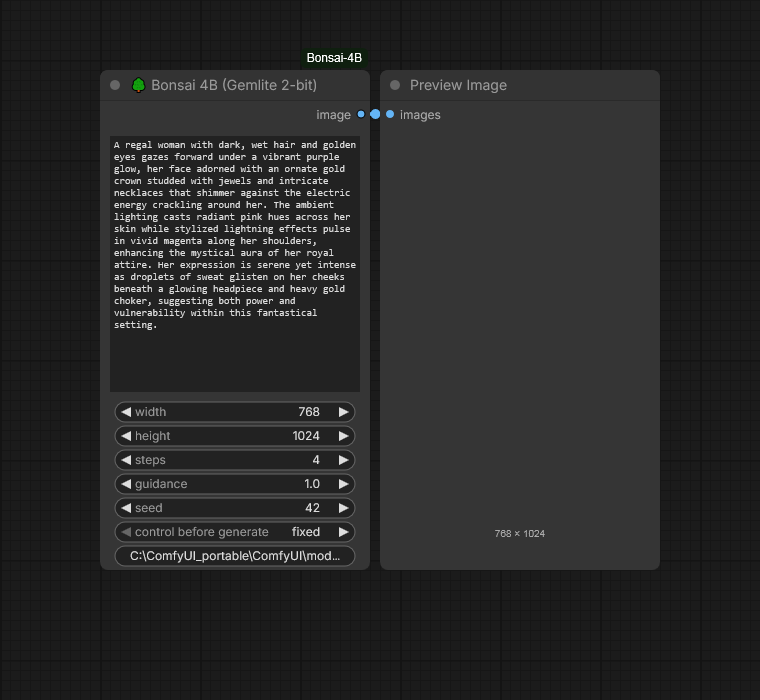
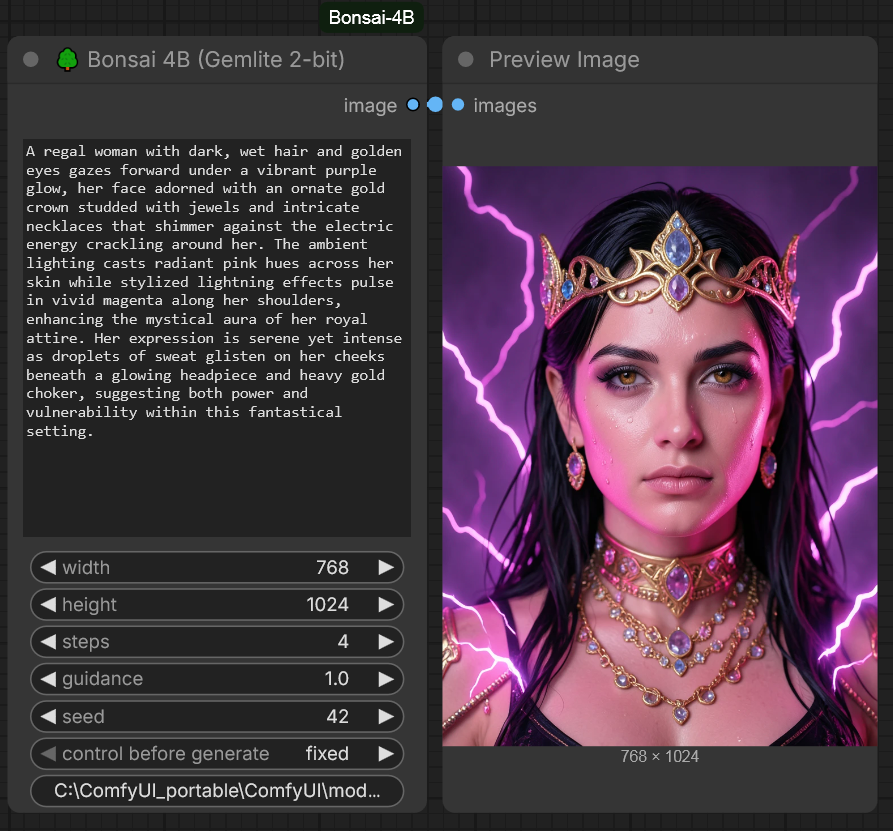
Bonsai-4B

diff --git a/ReadMe.MD b/ReadMe.MD
@@ -1,5 +1,7 @@
 ComfyUI-Bonsai-4B
 
+<img height="350" alt="Custom Resolution 🐲" src="example_workflow\Bonsai-image-4B (2Bit).png" />
+
 A custom ComfyUI node to run the Bonsai 4B (2-bit Ternary) image generation model locally. This node utilizes optimized Gemlite and HQQ kernels for high-speed inference on Windows/Linux GPU environments.
 ⚠️ Prerequisites
 
@@ -25,37 +27,30 @@ pip install hqq gemlite triton-windows
 
 The node expects the model files to be organized in your ComfyUI directory:
 
-    Create a folder at ComfyUI/models/Bonsai-4B/.
-
-    Ensure the following sub-folders are present inside Bonsai-4B/:
-
-        transformer-gemlite-int2/
-
-        text_encoder-hqq-4bit/
-
-        vae/
+```
+ComfyUI/
+└── models/
+    └── Bonsai-4B/   <-- Create this folder
+        ├── text_encoder-hqq-4bit/
+        ├── transformer-gemlite-int2/
+        └── vae/
+```
 
 Note: If the model is not found, the node will attempt to automatically download the required weights from Hugging Face upon the first run.
+
 ## 🚀 Usage
 
-    Restart ComfyUI.
+Restart ComfyUI.
+Right-click the canvas and select Add Node > Bonsai Image > Bonsai 4B (Gemlite 2-bit).
+Connect the IMAGE output to a Save Image node.
+Configure your prompt and inference settings.
+ Queue Prompt. The model will warm up on the GPU for the first generation.
 
-    Right-click the canvas and select Add Node > Bonsai Image > Bonsai 4B (Gemlite 2-bit).
-
-    Connect the IMAGE output to a Save Image node.
-
-    Configure your prompt and inference settings.
-
-    Queue Prompt. The model will warm up on the GPU for the first generation.
-
-## 🧩 Node Structure
 ## 📝 Troubleshooting
 
-    Missing Kernels: Ensure triton is installed correctly for your specific GPU architecture.
-
-    RuntimeError (prewarm): If you see a prewarm error, ensure your model paths in ComfyUI/models/Bonsai-4B/ are not empty and contain the necessary config.json files for each component.
-
-    VRAM Issues: This model is highly optimized, but ensure you have at least 6GB of VRAM available to accommodate the loading process.
+Missing Kernels: Ensure triton is installed correctly for your specific GPU architecture.
+RuntimeError (prewarm): If you see a prewarm error, ensure your model paths in ComfyUI/models/Bonsai-4B/ are not empty and contain the necessary config.json files for each component.
+VRAM Issues: This model is highly optimized, but ensure you have at least 6GB of VRAM available to accommodate the loading process.
 
 ## ⚖️ License
 